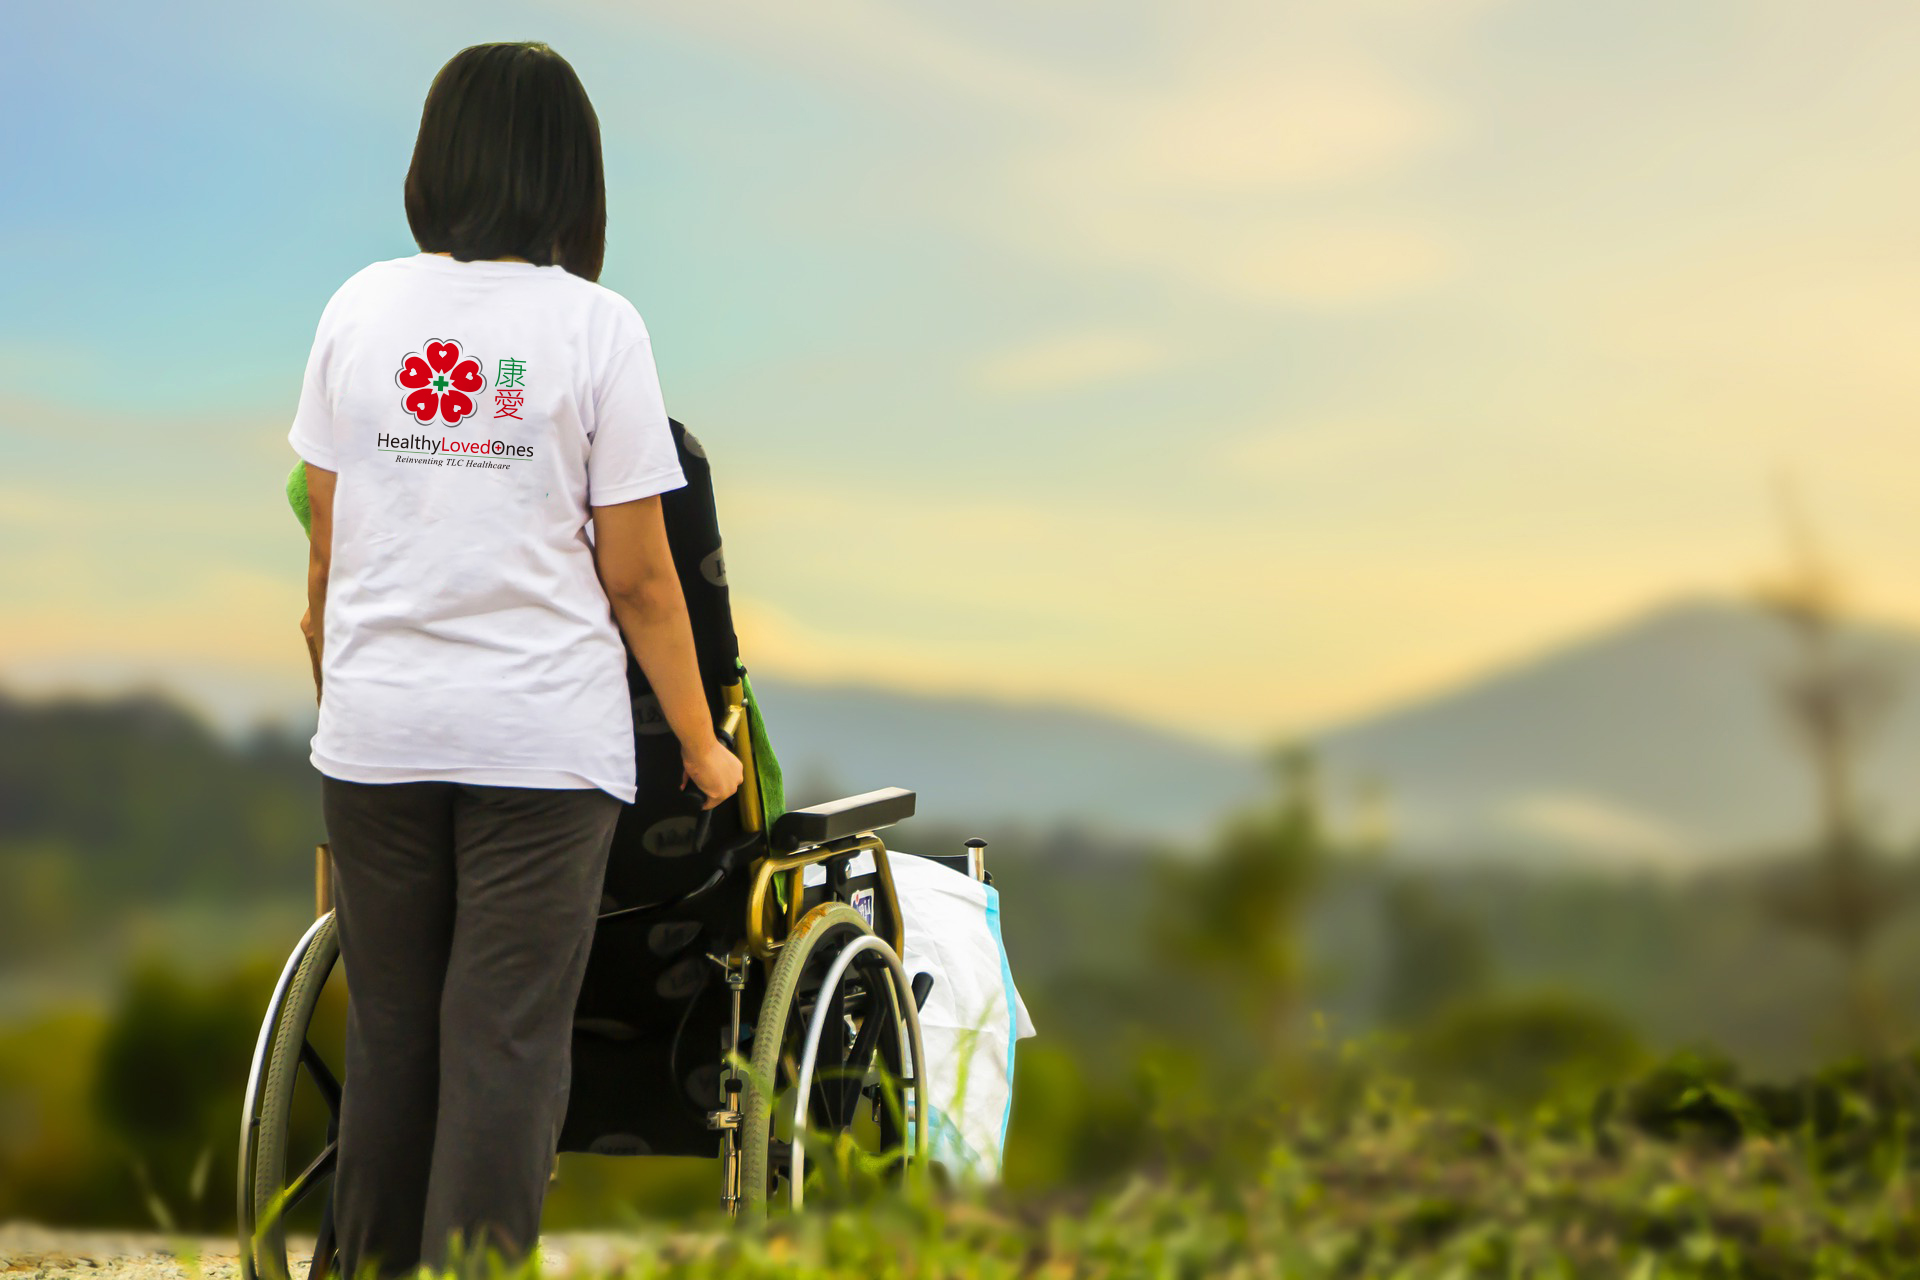
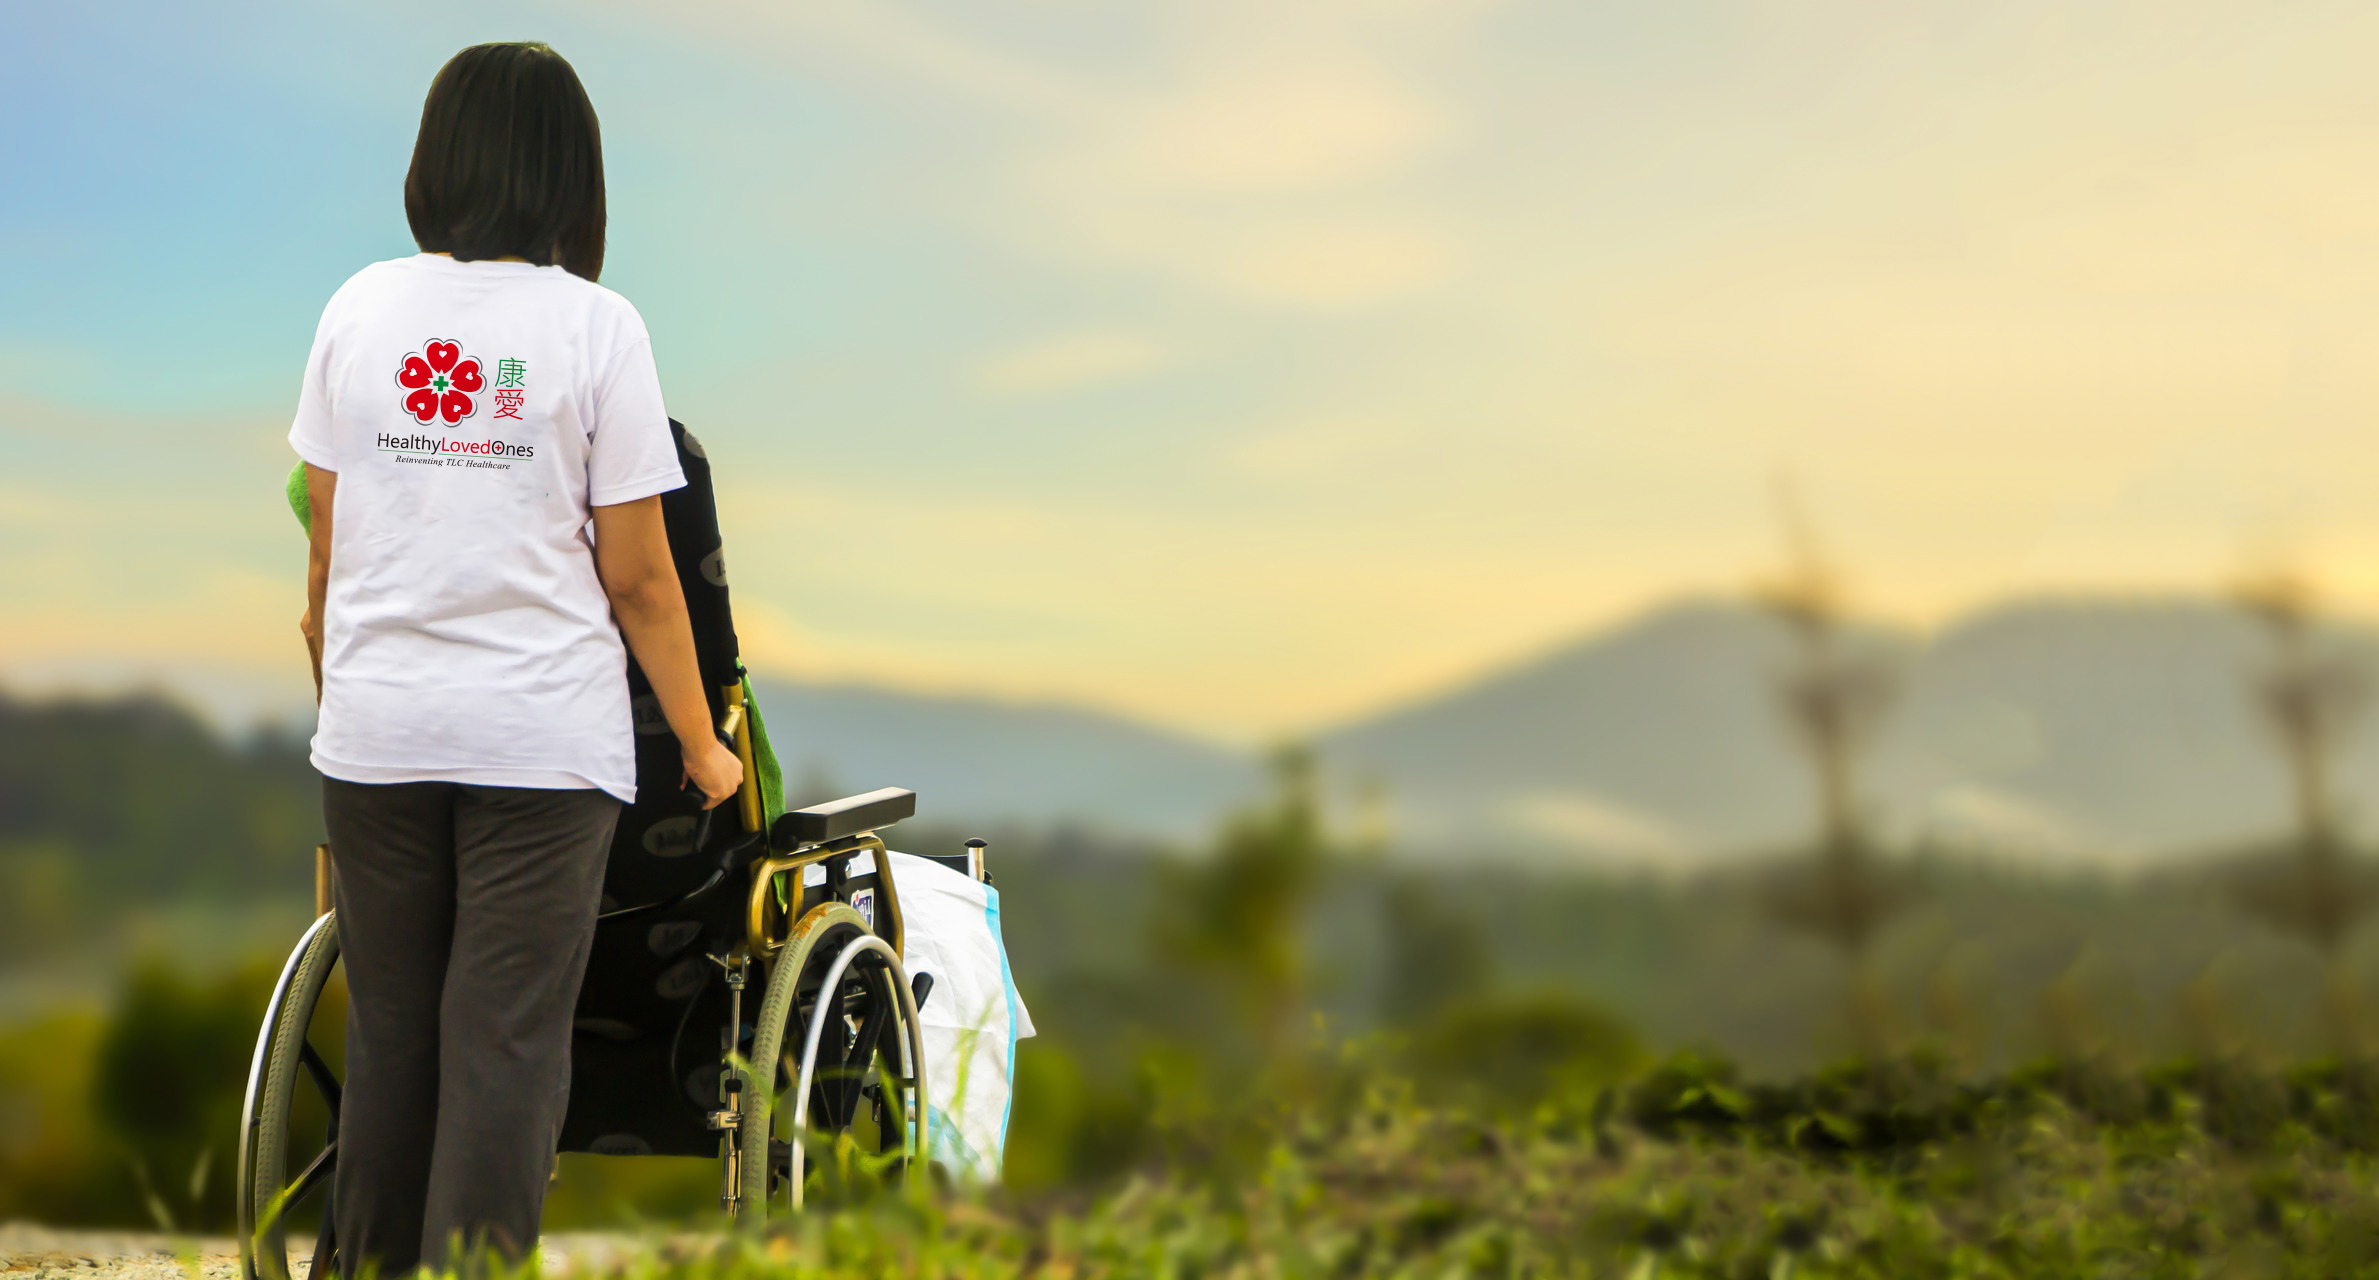
Update background cover and change green bar text

diff --git a/src/components/Body/Home/Hero/index.js b/src/components/Body/Home/Hero/index.js
@@ -22,10 +22,10 @@ class Hero extends Component {
                     <div className="container">
                         <div className="row">
                             <div className="col-sm-4">
-                                <h5>HLO is Homecare.</h5>
+                                <h5>TLC: Tender Loving Care.</h5>
                             </div>
                             <div className="col-sm-8">
-                                <h5><a href="#">Care News: All jobs now come with $18 million...</a></h5>
+                                <h5> In sports, adversity produces Champions. In business, adversity produces Disruptors.</h5>
                             </div>
                         </div>
                     </div>

diff --git a/src/css/main.css b/src/css/main.css
@@ -502,8 +502,10 @@ h1, h2, h3, h4, h5, h6, p {
     color: #ffffff;
     font-weight: bold; }
 
-.rating {
+.rating, .job-posted-date {
   font-size: 20px; }
+  .rating h4, .job-posted-date h4 {
+    color: #ffffff; }
 
 .rating a {
   color: #ffffff; }
